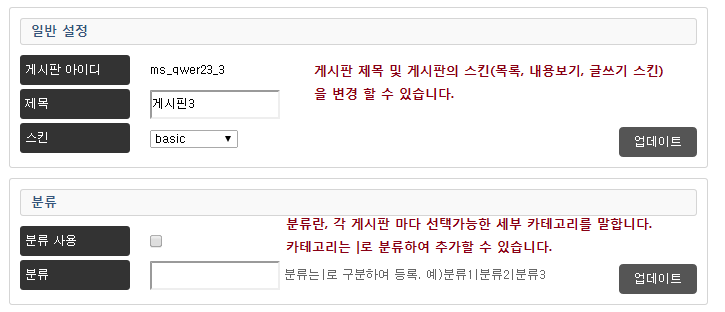
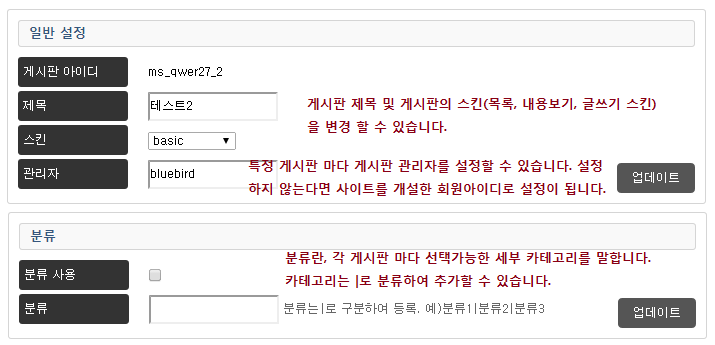
config.php

diff --git a/module/multisite/multisite.css b/module/multisite/multisite.css
@@ -651,7 +651,7 @@ table > .header td:first-child {
 	cursor: pointer;
 }
 
-.subsite-support  .support .tab-menu .tab-button:hover  {
+.subsite-support  .support .tab-menu .tab-button:hover, .subsite-support  .support .tab-menu .tab-button:first-child {
 	background-color: #314258;
 }
 

diff --git a/module/multisite/config.php b/module/multisite/config.php
@@ -53,10 +53,20 @@
 			
 		</div>
 		<div class='inner write-setting'>
-			글쓰기 설정
+		<?php
+			for( $i=1; $i <=7; $i++ ) {
+				if ( $i == 1 ) echo "<div class='sub-title'>1. 글쓰기를 클릭 합니다.</div>"; 
+				else if ( $i == 2 ) echo "<div class='sub-title'>2.포털의 블로그에서 글쓰기 API 정보를 확인 하는 방법은 다음과 같습니다(네이버 기준).</div>";
+				else if ( $i == 4 ) echo "<div class='sub-title'>3. 메뉴, 글 관리에서 글쓰기 API설정을 클릭 합니다.</div>";
+				else if ( $i == 5 ) echo "<div class='sub-title'>4. 글쓰기 API 계정을 확인 한 후, 설정하려는 사이트의 API연결 URL, 아이디, API연결 암호를 입력합니다.  </div>";
+				else if ( $i == 6 ) echo "<div class='sub-title'>5. 다음과 같이 네이버 블로그에도 글이 정상적으로 등록이 된다면 설정이 완료 된 것 입니다. </div>";
+				echo "<div class='support-image'><img src='".x::url()."/module/multisite/support_img/w{$i}.png' /></div>";
+			}?>
+			<div class='sub-title'>6. 글쓰기 서비스에서는 총 3개의 글쓰기 API계정을 입력 할 수 있으며, 3개의 블로그에 동시에 글 등록이 가능합니다.</div>
 		</div>
 		<div class='inner theme-setting'>
-			테마 선택
+			<div class='sub-title'></div>
+			<div class='support-image'><img src='<?=x::url()?>/module/multisite/support_img/t1.png' /></div>
 		</div>
 	</div>
 	
